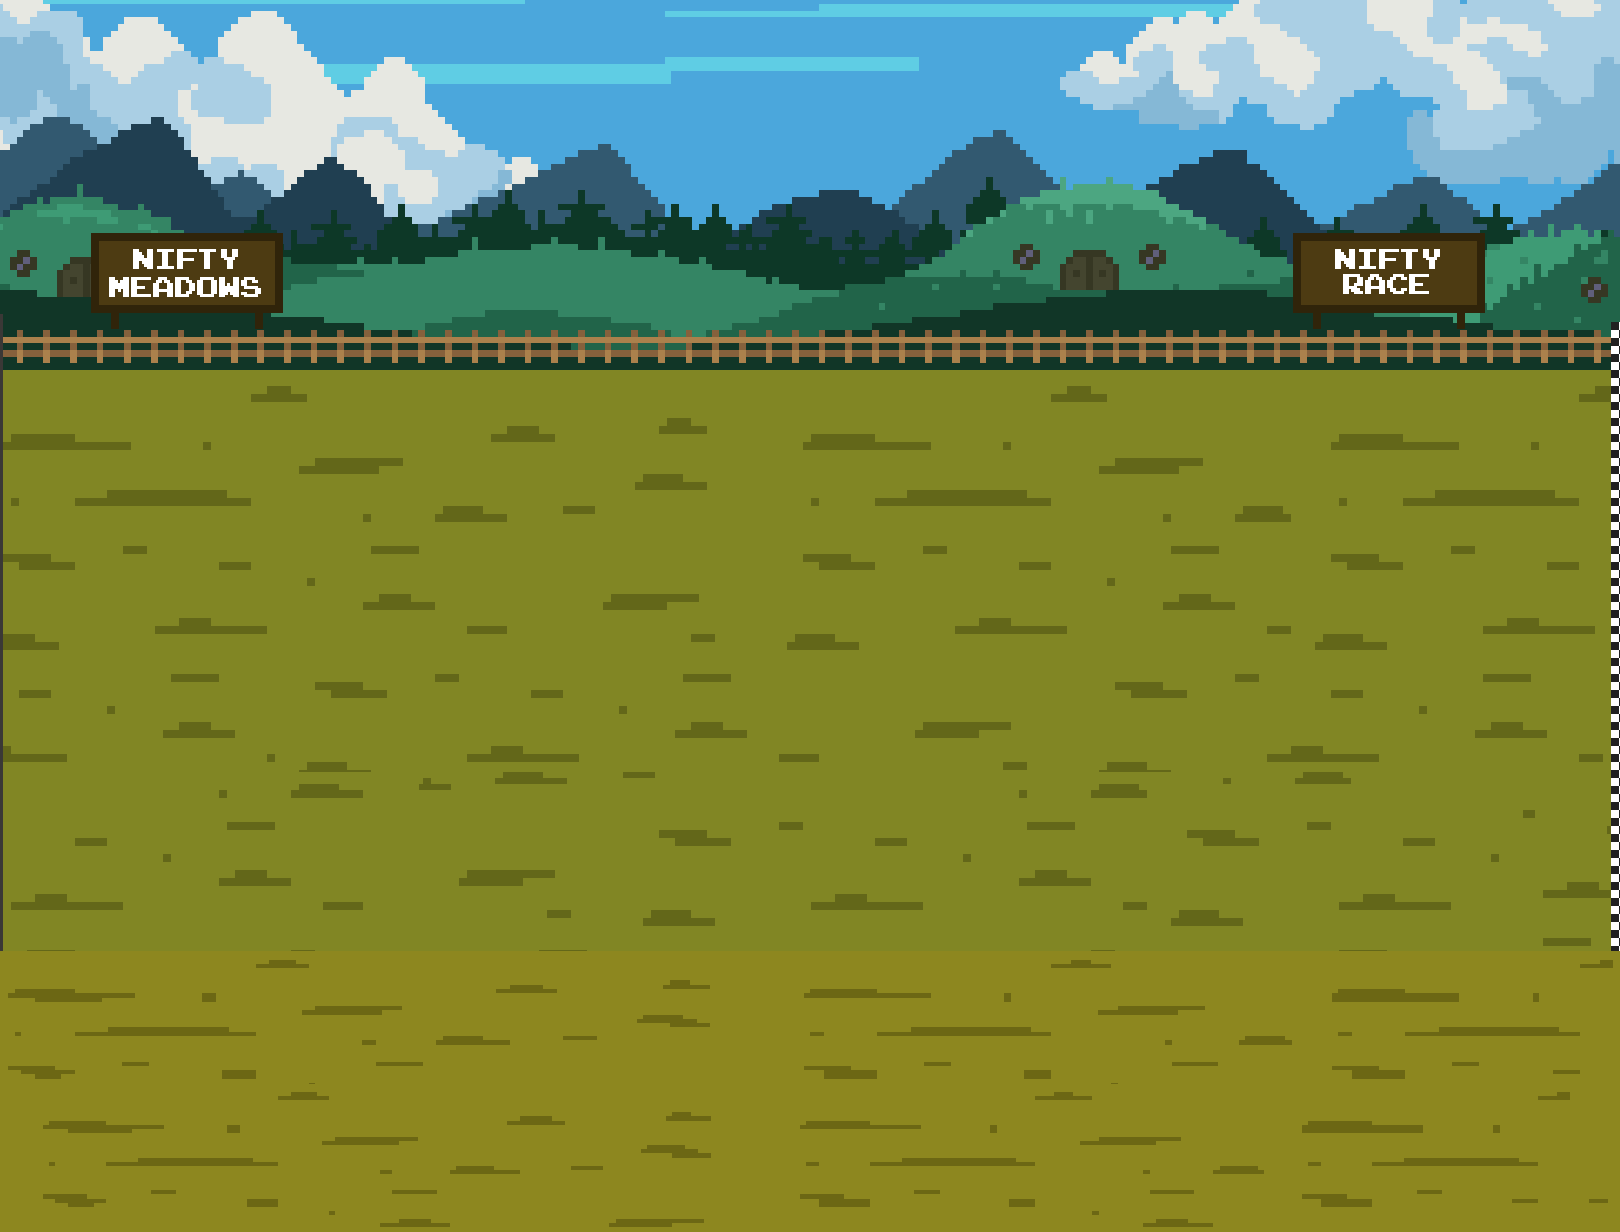
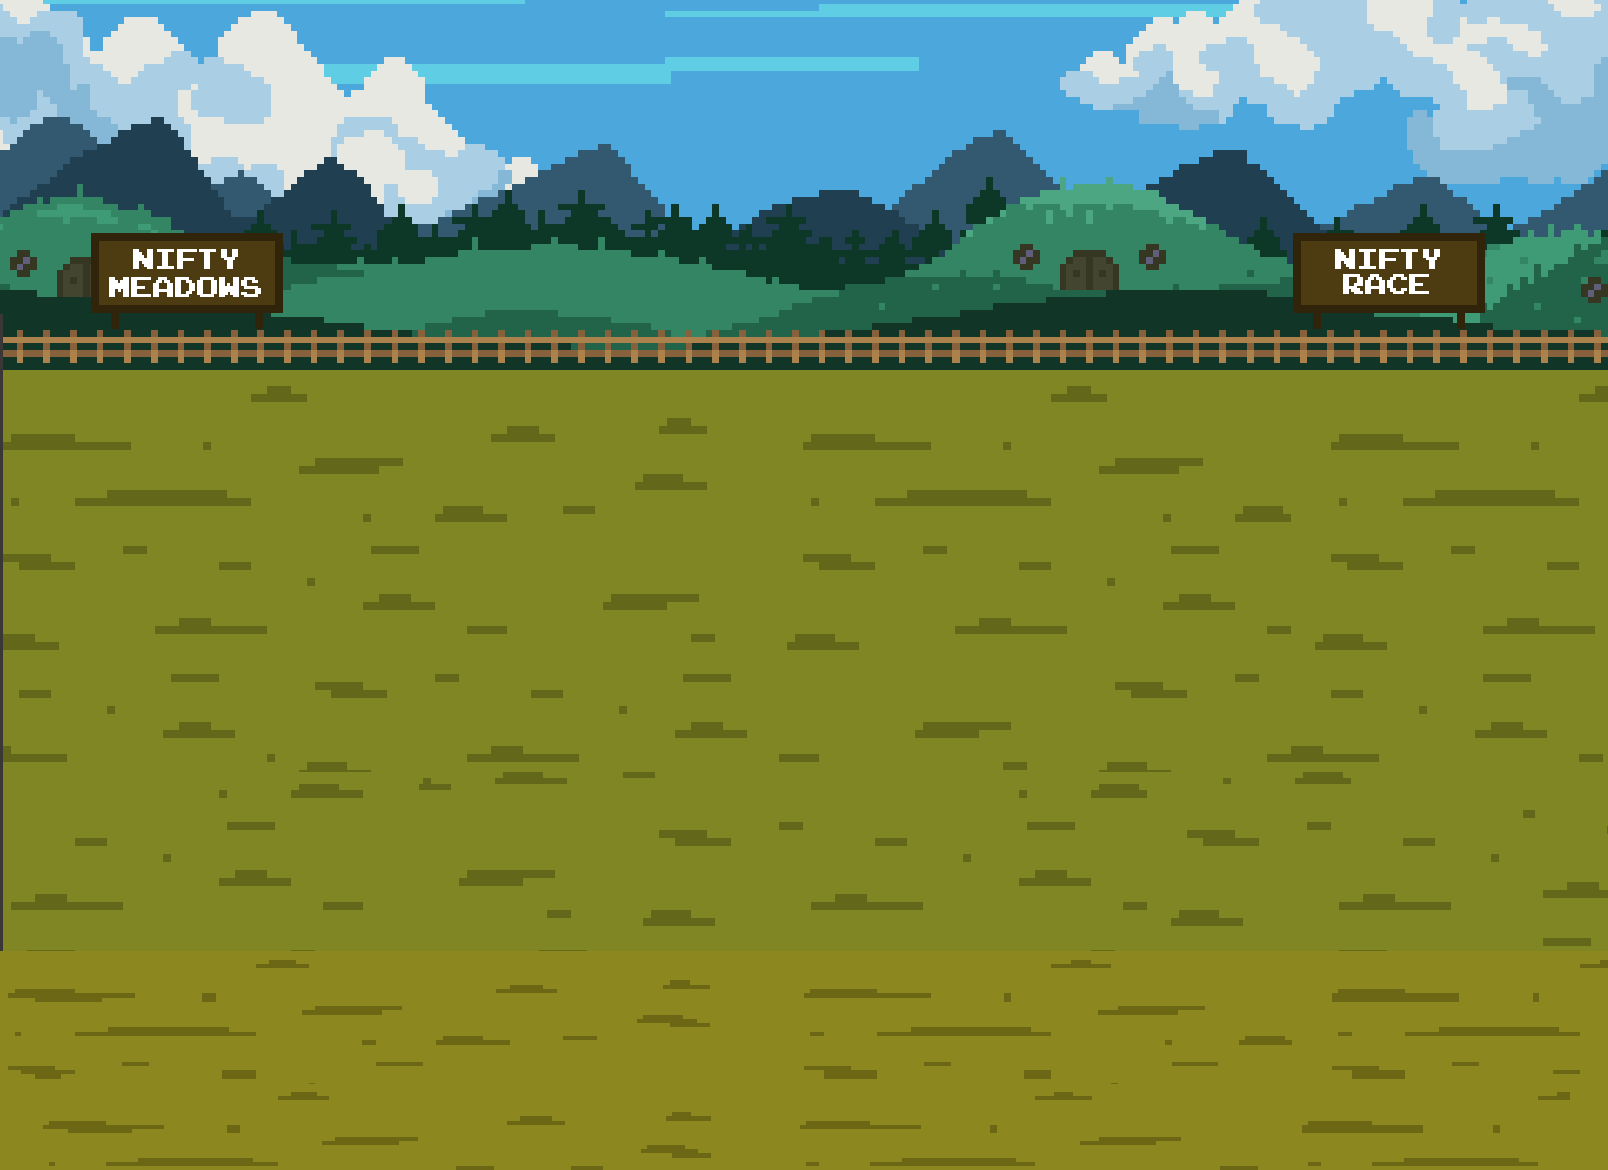
Revision done on some pages

diff --git a/src/components/pages/Race.vue b/src/components/pages/Race.vue
@@ -303,11 +303,11 @@ async function logout() {
   <div class="row" v-else>
     <div class="col-md-4">
       <div class="card mb-3">
-        <div class="card-header">
+        <div class="card-header color-light-gray">
           Race Session
         </div>
         <div class="list-group list-group-flush">
-          <a href="#" class="list-group-item list-group-item-action d-flex justify-content-between align-items-center"
+          <a href="#" class="list-group-item list-group-item-action d-flex justify-content-between align-items-center color-light-gray"
              :class="{active: activeRace != null && activeRace.activeSession == race.session_id.toString()}"
              v-for="[idx, race] of Object.entries(races)" :key="`race_${race.session_id}`" @click="loadRaceDetail(race)">
             <div>
@@ -331,10 +331,10 @@ async function logout() {
         Please select session
       </div>
       <div class="card" v-else>
-        <div class="card-header">
+        <div class="card-header color-light-gray">
           Race Detail
         </div>
-        <div class="card-body">
+        <div class="card-body color-light-gray">
           <div class="row">
             <div class="col-md-12" v-if="activeRace.usedTicket == null">
               <div class="form-group mb-3">
@@ -344,7 +344,7 @@ async function logout() {
                     [Level: {{ticket.level}}] {{ticket.asset_id}}
                   </option>
                 </select>
-                <input type="text" readonly class="form-control" value="No Available Ticket" v-else>
+                <input type="text" readonly class="form-control color-dark-gray"style="border-color: rgb(159, 159, 159);" value="No Available Ticket" v-else>
               </div>
             </div>
             <div class="col-md-12" v-else>
@@ -358,16 +358,16 @@ async function logout() {
           <div class="row mb-3">
             <div class="col-md-6 mb-3">
               <div class="card">
-                <div class="card-header d-flex justify-content-between">
+                <div class="card-header d-flex justify-content-between color-dark-gray">
                   <span>Trifecta</span>
                   <button class="btn btn-xs btn-primary me-1" @click="trifecta = []">
                     Clear Select
                   </button>
                 </div>
                 <div class="list-group list-group-flush">
-                  <div class="list-group-item d-flex justify-content-between align-items-center" v-for="horse of activeRace!.horses" :key="`tr_${horse.asset_id}`">
+                  <div class="list-group-item d-flex justify-content-between align-items-center color-dark-gray" v-for="horse of activeRace!.horses" :key="`tr_${horse.asset_id}`">
                     <div>
-                      <input type="checkbox" class="form-check-input me-2" :id="`ck_${horse.asset_id}`"
+                      <input type="checkbox" class="form-check-input me-2 color-dark-gray" :id="`ck_${horse.asset_id}`"
                              :value="horse.asset_id.toString()" v-model="trifecta" :checked="trifecta.includes(horse.asset_id.toString())"
                              :disabled="activeRace.usedTicket != null">
                       <label :for="`ck_${horse.asset_id}`" class="form-check-label">
@@ -386,16 +386,16 @@ async function logout() {
             </div>
             <div class="col-md-6 mb-3">
               <div class="card">
-                <div class="card-header d-flex justify-content-between">
+                <div class="card-header d-flex justify-content-between color-dark-gray">
                   <span>Win</span>
                   <button class="btn btn-xs btn-primary me-1" @click="winning = '0'">
                     Clear Select
                   </button>
                 </div>
                 <div class="list-group list-group-flush">
-                  <div class="list-group-item d-flex justify-content-between align-items-center" v-for="horse of activeRace!.horses" :key="`wn_${horse.asset_id}`">
-                    <div>
-                      <input type="radio" class="form-check-input me-2" :id="`opt_${horse.asset_id}`" :disabled="activeRace!.usedTicket != null"
+                  <div class="list-group-item d-flex justify-content-between align-items-center color-dark-gray" v-for="horse of activeRace!.horses" :key="`wn_${horse.asset_id}`">
+                    <div> 
+                      <input type="radio" class="form-check-input me-2 color-dark-gray" :id="`opt_${horse.asset_id}`" :disabled="activeRace!.usedTicket != null"
                              :value="horse.asset_id.toString()" v-model="winning" :checked="horse.asset_id.toString() == winning">
                       <label :for="`opt_${horse.asset_id}`" class="form-check-label">
                         {{ horse.asset_id }}
@@ -409,7 +409,7 @@ async function logout() {
               </div>
             </div>
             <div class="col-md-12">
-              <div class="alert alert-warning">
+              <div class="alert alert-warning warning-background-color">
                 In order to select both option between Trifecta and Win options, You must state 100,000 DUST to
                 niftyracecom at <a href="https://dustismagic.com" target="stake">dustismagic.com</a>
               </div>
@@ -473,7 +473,8 @@ div.time-block {
   background-size: 100% 100%; /* or background-size: contain; */
   background-position: center;
   background-repeat: no-repeat;
-  min-height: 80rem;
+  min-height: 50rem;
+    padding-bottom: 4rem;
 }
 
 .me-1{

diff --git a/src/style.css b/src/style.css
@@ -41,8 +41,103 @@ body {
   width: 65% !important;
 }
 
+.list-group-item.active{
+  background-color: #3d8bb9;
+    border-color: #3d8bb9;
+}
+
+.text-bg-primary {
+  color: #080808 !important;
+  background-color: #3d8bb9!important;
+}
+.color-light-gray{
+  background-color: rgb(200, 200, 200);
+}
+.color-dark-gray{
+  background-color: rgb(159, 159, 159);
+}
+.warning-background-color{
+  background: #cff4fc;
+    border-color: #cff4fc;
+}
+.list-group-item-action:focus, .list-group-item-action:hover {
+  background-color: #3d8bb9;
+    border-color: #3d8bb9;
+}
+
+@media screen and (max-width: 1265px) {
+  .userName{
+    flex-wrap: nowrap;
+  }
+  .userName input {
+    margin-left: -50px;
+    width: 100% !important;
+}
+}
+
+@media screen and (max-width: 1211px) {
+  .userName input {
+    margin-left: -65px;
+}
+}
+
+@media screen and (max-width: 1152px) {
+  .userName input {
+    margin-left: -80px;
+}
+}
+
+@media screen and (max-width: 1095px) {
+  .userName input {
+    margin-left: -97px;
+}
+.social-icons-container{
+    margin-left: -30px;
+}
+}
+
+@media screen and (max-width: 998px) {
+  .userName input {
+    margin-left: -122px;
+}
+.social-icons-container {
+  margin-left: -32px;
+}
+.social-icons-container img{
+  width: 45px !important;
+}
+}
+
+@media screen and (max-width: 920px) {
+  .userName input {
+    margin-left: -140px;
+}
+.social-icons-container img{
+  width: 40px !important;
+}
+.social-icons-container {
+  margin-left: 0;
+}
+.settingbutton{
+  width: 60%;
+}
+}
+
+
+
 @media screen and (max-width: 720px) {
   .userName{
     justify-content: center;
   }
+  .userName input {
+    margin-left: 0;
+    font-size: 22px;
+    margin-left: -1rem;
+}
+.social-icons-container img {
+  width: 60px !important;
+}
+.settingbutton {
+  width: 100%;
+}
 }

diff --git a/src/components/pages/Results.vue b/src/components/pages/Results.vue
@@ -275,7 +275,7 @@ overflow: auto !important;
     background-size: cover; /* or background-size: contain; */
   background-position: top;
   background-repeat: no-repeat;
-  height: 70rem;
+  min-height: 70vh;
     display: flex;
     justify-content: center;
     flex-direction: column;
@@ -313,7 +313,7 @@ overflow: auto !important;
 }
 
 #history-detail{
-  height: 80vh;
+  height: 100%;
 }
 
 

diff --git a/src/components/pages/Home.vue b/src/components/pages/Home.vue
@@ -244,10 +244,10 @@ async function logout() {
 <style scoped>
 .home {
   background-image: url('./static/BG1_meadows.png');
-  background-size: 102% 100%;
+  background-size: cover;
   background-position: center;
-  /* height: 55rem; */
-  padding-bottom: 15rem !important;
+  min-height: 75vh;
+  padding-bottom: 4rem !important;
 }
 
 .mb-n3 {

diff --git a/src/components/pages/Inventory.vue b/src/components/pages/Inventory.vue
@@ -657,9 +657,10 @@ async function logout() {
 
 .bodycontainer{
   background-image: url('/src/assets/background-horizontal.png');
-  background-size: 100% 100%;
-  background-position: center;
-  min-height: 20rem;
+  background-size: cover;
+  background-position: top;
+  min-height: 80vh;
+  padding-bottom: 6rem;
 }
 
 
